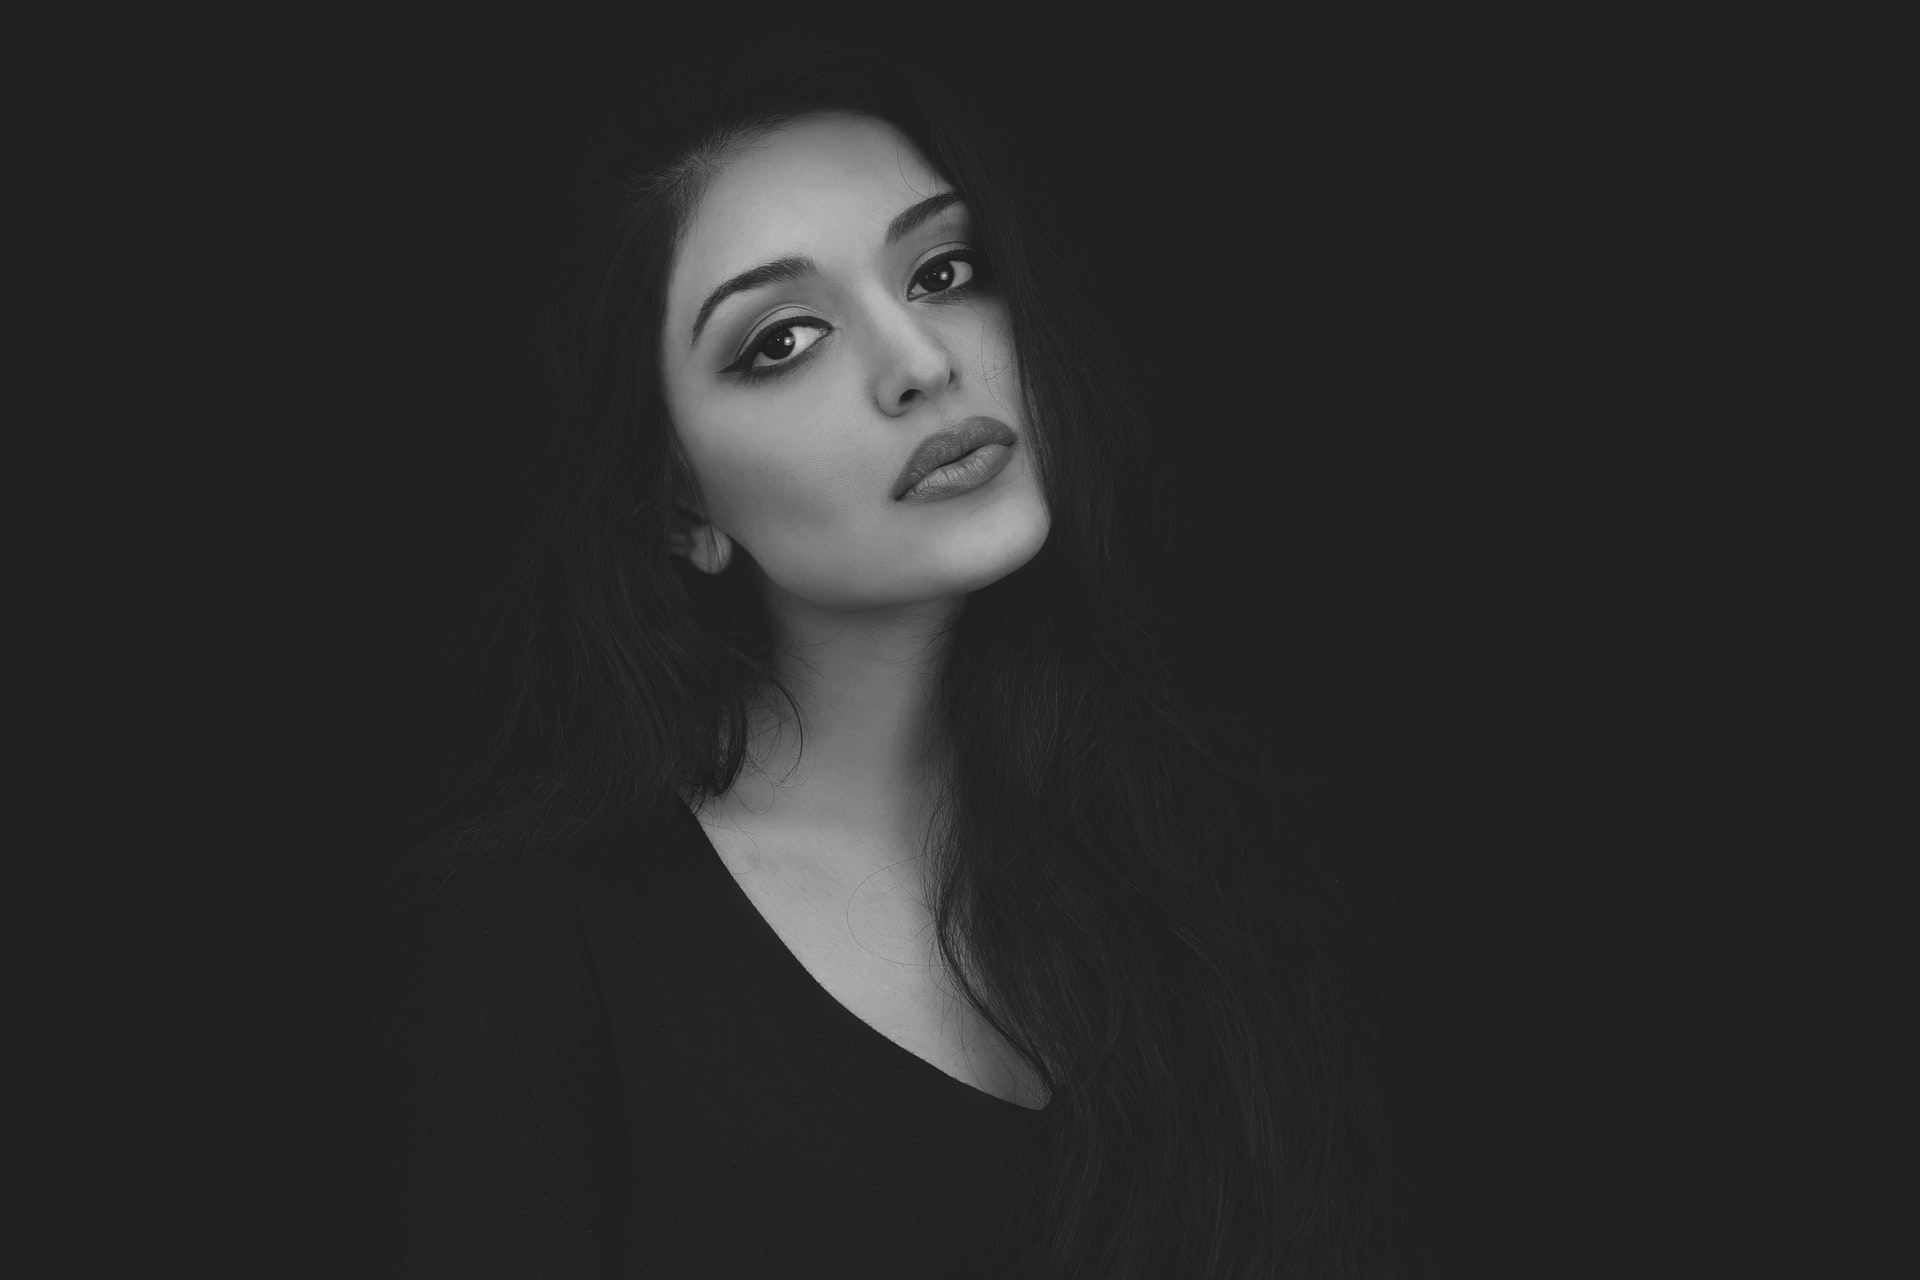
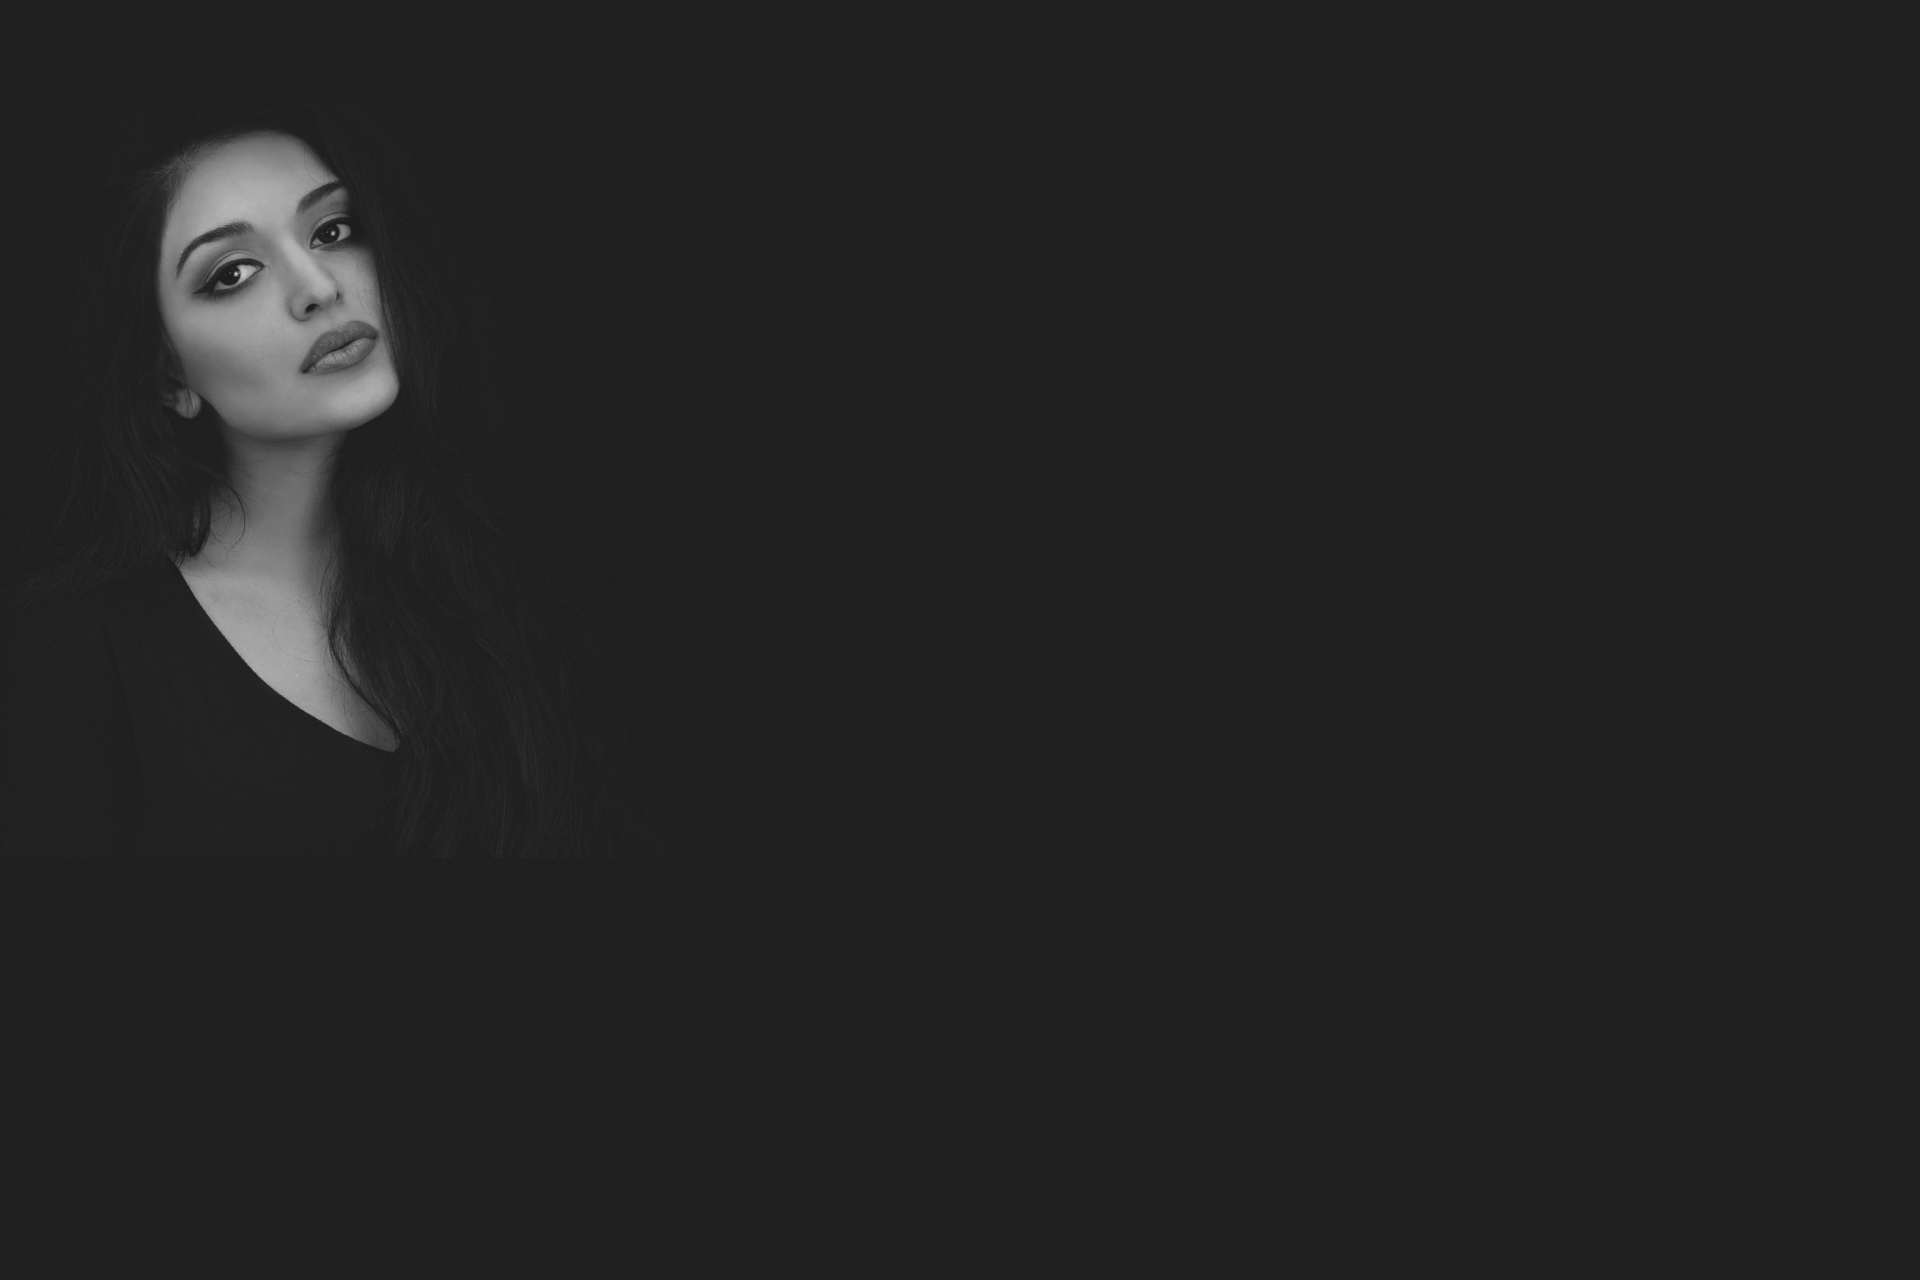
Add files via upload

Changed region(s): [[0.3438, 0.0625, 0.5625, 0.875], [0.0625, 0.0938, 0.2188, 0.5938]]

diff --git a/css/style.css b/css/style.css
@@ -255,10 +255,7 @@ ul li:hover {
   .caret-down {
     display: none;
   }
-}
-
-@media (max-width:1360px) {
   .main {
-    background-size: cover;
+  	background-image:url("../img/main2.png");
   }
 }
